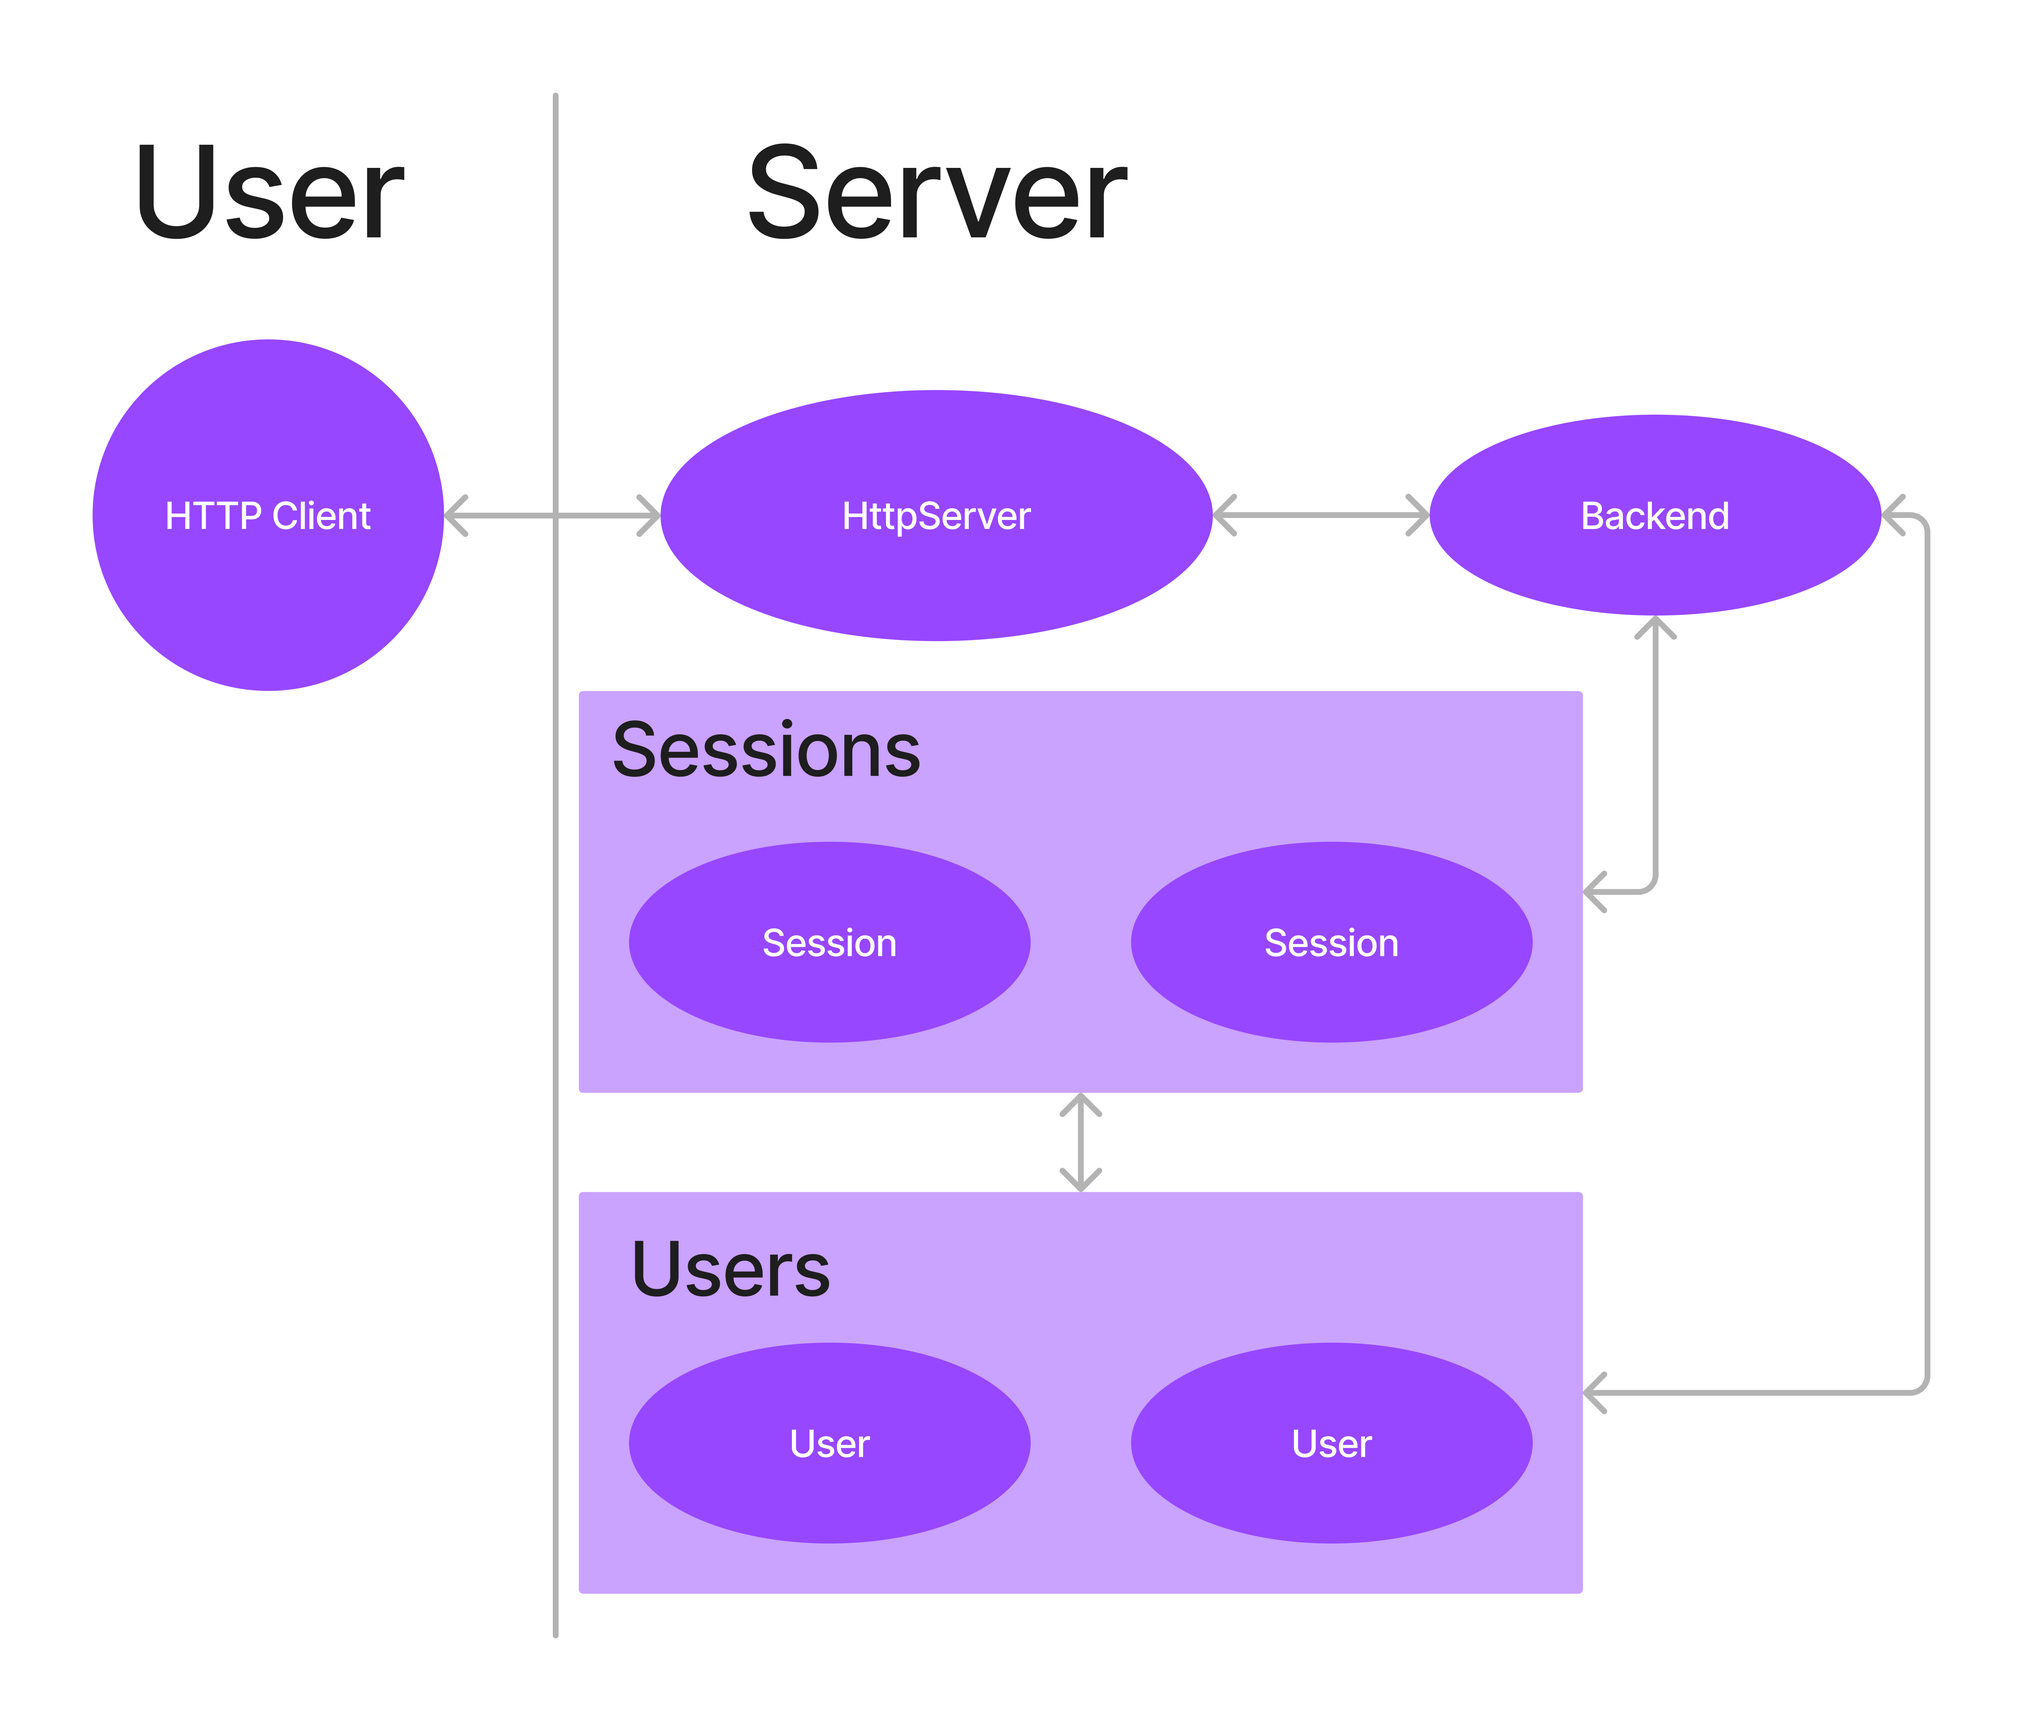
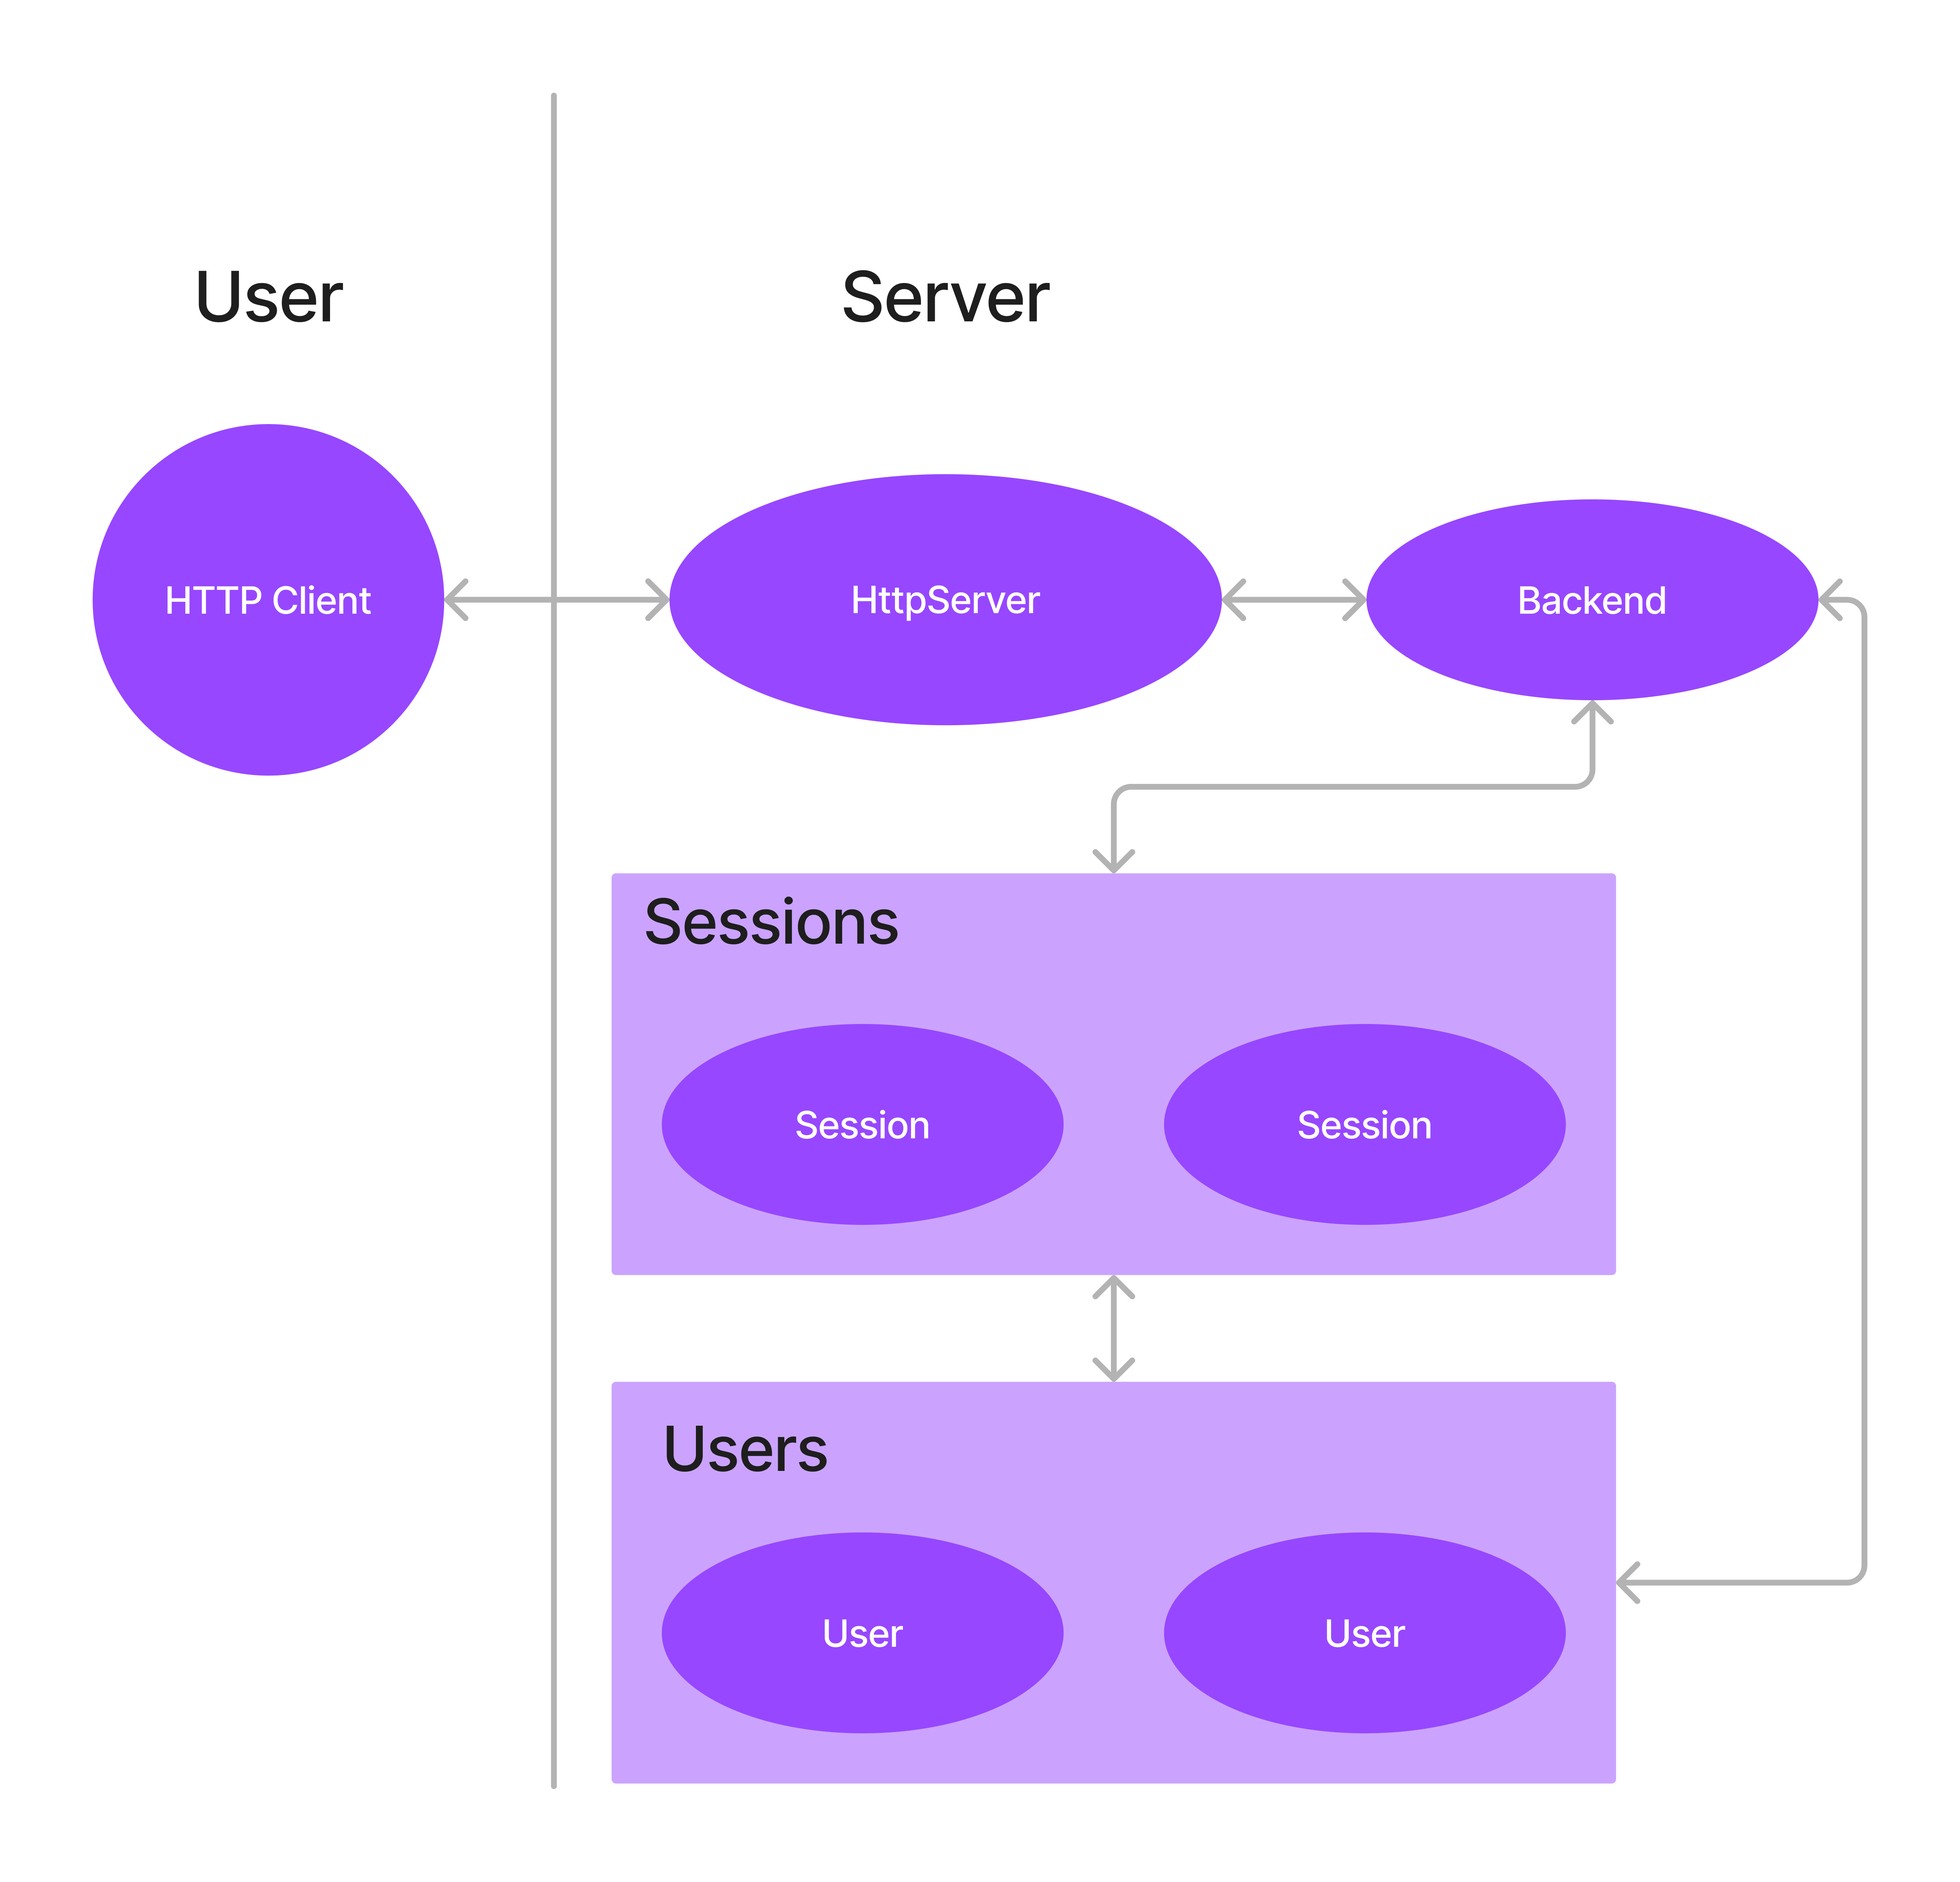
scheme fixes

diff --git a/chapter3.tex b/chapter3.tex
@@ -57,22 +57,15 @@ Podzielono system na następujące elementy:
 
 \begin{figure}[h!]
   \centering
-  \includegraphics[width=\textwidth]{img/schematy/schemat_systemu.png}
+  \includegraphics[width=0.9\textwidth]{img/schematy/schemat_systemu.png}
   \caption{Schemat podziału i~zależności elementów systemu wraz z~wykorzystywanymi przez nie technologiami.}
-  \label{fig:akka-highlevel}
+  \label{fig:system-scheme}
 \end{figure}
 
 \FloatBarrier
 
 
 \section{Architektura serwera}
-
-\begin{figure}[!]
-  \centering
-  \includegraphics[width=\textwidth]{img/akka/HighLevel.png}
-  \caption{Wysokopoziomowy schemat architektury serwera.}
-  \label{fig:akka-highlevel}
-\end{figure}
 
 Serwer został zaimplementowany w języku Scala,
 wykorzystując framework Akka \cite{Akka}.
@@ -89,25 +82,30 @@ oraz serwisu Firebase Authentication,
 serwer HTTP odczytuje identyfikatory $UserId$ oraz
 $SessionId$ powiązane z~danym użytkownikiem.
 
-%%% TODO powiekszenie schematow
-
-\begin{figure}[!]
+\begin{figure}[hp!]
   \centering
-  \includegraphics[width=\textwidth]{img/akka/CreateSession.png}
+  \includegraphics[width=0.9\textwidth]{img/akka/HighLevel.png}
+  \caption{Wysokopoziomowy schemat architektury serwera.}
+  \label{fig:akka-highlevel}
+\end{figure}
+
+\begin{figure}[hp!]
+  \centering
+  \includegraphics[width=0.9\textwidth]{img/akka/CreateSession.png}
   \caption{Schemat tworzenia sesji.}
   \label{fig:akka-createsession}
 \end{figure}
 
-\begin{figure}[!]
+\begin{figure}[hp!]
   \centering
-  \includegraphics[width=\textwidth]{img/akka/JoinSession.png}
+  \includegraphics[width=0.9\textwidth]{img/akka/JoinSession.png}
   \caption{Schemat dołączania do sesji.}
   \label{fig:akka-joinsession}
 \end{figure}
 
-\begin{figure}[!]
+\begin{figure}[hp!]
   \centering
-  \includegraphics[width=\textwidth]{img/akka/SessionInfo.png}
+  \includegraphics[width=0.9\textwidth]{img/akka/SessionInfo.png}
   \caption{Schemat pobierania informacji o sesji.}
   \label{fig:akka-sessioninfo}
 \end{figure}
@@ -333,7 +331,8 @@ proces rozwoju części wizualnej aplikacji.
 \section{Silnik gry}
 \label{subsec:silnik_gry}
 
-Silnik wizualny rozgrywki do gry w~brydża jest kluczowym elementem aplikacji.
+Silnik wizualny rozgrywki do gry w~brydża jest elementem, który miał na celu
+być minimalistycznym i~przyjaznym wizualnie dla użytkowników.
 Podczas tworzenia go skupiono się, aby zaoferować
 wysoką wydajność i~pełną integrację z~aplikacją webową.
 

diff --git a/chapter4.tex b/chapter4.tex
@@ -345,7 +345,7 @@ o~nieudanym przeprowadzeniu testów
 
 \begin{figure}[hbt!]
     \centering
-    \includegraphics[width=0.9\textwidth]{img/github/github-commits.png}
+    \includegraphics[width=0.9\textwidth]{img/github/github-tests.png}
     \caption{Lista uruchomionych testów przez GitHub Actions dla Bridge Core}
     \label{fig:github-tests}
 \end{figure}
